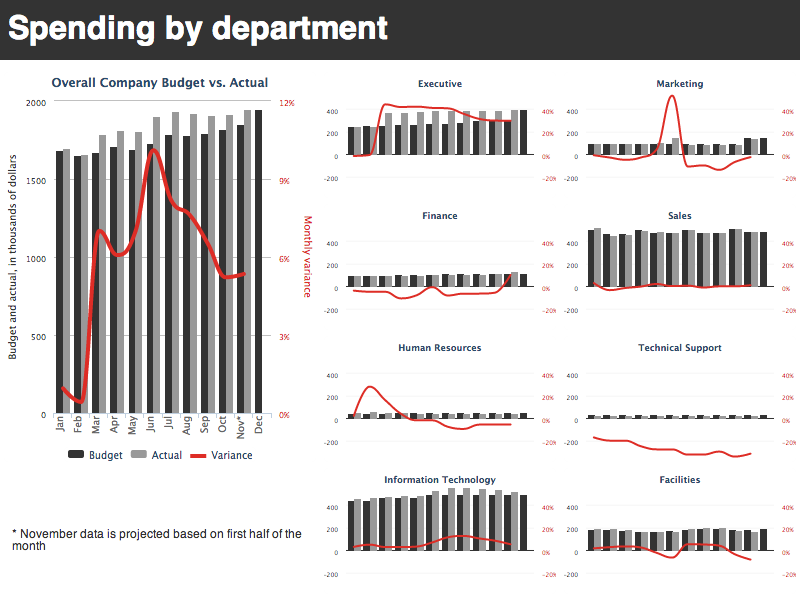
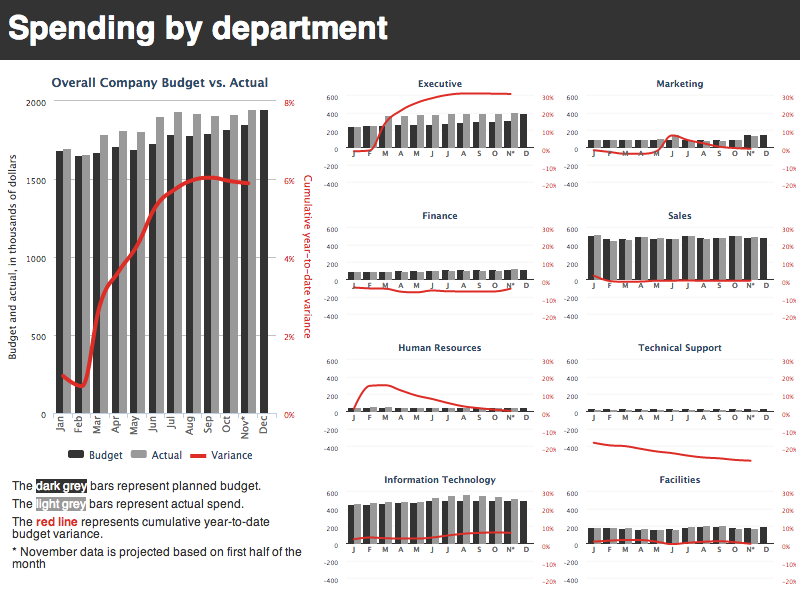
final updates to code and images

diff --git a/_js/chart2.js b/_js/chart2.js
@@ -52,6 +52,7 @@ $(document).ready(function(){
       // Chart 1 specifics
       var month_list = ['Jan', 'Feb', 'Mar', 'Apr', 'May', 'Jun', 'Jul', 'Aug', 'Sep', 'Oct', 'Nov', 'Dec'];
       var cat_list = ['Jan', 'Feb', 'Mar', 'Apr', 'May', 'Jun', 'Jul', 'Aug', 'Sep', 'Oct', 'Nov*', 'Dec'];
+      var cat_list_short = ['J', 'F', 'M', 'A', 'M', 'J', 'J', 'A', 'S', 'O', 'N*', 'D'];
       var dept_list = ['Executive', 'Finance', 'Human Resources', 'Marketing', 'Sales', 'Technical Support', 'Information Technology', 'Facilities'];
       var chart_list = ['exec-chart', 'finance-chart', 'hr-chart', 'marketing-chart', 'sales-chart', 'techsupport-chart', 'it-chart', 'facilities-chart'];
       var color_list = ['#253494', '#2c7fb8', '#41b6c4', '#006837', '#31a354', '#78c679', '#993404', '#d95f0e'];
@@ -72,8 +73,12 @@ $(document).ready(function(){
         budget_bars.push(cur_budget);
         actual_bars.push(cur_actual);
         if ( m < 11 ) {
-          var cur_var = ((cur_actual / cur_budget) - 1) * 100;
-          var_line.push(cur_var);
+          var total_budget = 0;
+          var total_actual = 0;
+          $.each(budget_bars,function() {total_budget += this;});
+          $.each(actual_bars,function() {total_actual += this;});
+          var ytd_var = ((total_actual / total_budget) - 1) * 100;
+          var_line.push(ytd_var);
         };
       };
 
@@ -135,7 +140,7 @@ $(document).ready(function(){
           endOnTick: false
         }, { // secondary yAxis
           title: {
-            text: 'Monthly variance',
+            text: 'Cumulative year-to-date variance',
             style: {
               color: '#de2d26',
               fontSize: '10px',
@@ -152,10 +157,10 @@ $(document).ready(function(){
           },
           opposite: true,
           min: 0,
-          max: 12,
+          max: 8,
           startOnTick: false,
           endOnTick: false,
-          tickInterval: 3
+          tickInterval: 2
         }],
         legend: {
           borderWidth: 0,
@@ -204,7 +209,12 @@ $(document).ready(function(){
           budget_bars.push(cur_budget);
           if ( m < 11 ) {
             actual_bars.push(cur_actual);
-            var_line.push(((cur_actual / cur_budget) - 1) * 100);
+            var total_budget = 0;
+            var total_actual = 0;
+            $.each(budget_bars,function() {total_budget += this;});
+            $.each(actual_bars,function() {total_actual += this;});
+            var ytd_var = ((total_actual / total_budget) - 1) * 100;
+            var_line.push(ytd_var);
           };
         };
         $("#" + chart_location).highcharts({
@@ -236,11 +246,12 @@ $(document).ready(function(){
             }
           },
           xAxis: {
-            categories: cat_list,
+            categories: cat_list_short,
             labels: {
-              rotation: 270,
+              y: -42,
               style: {
-                fontSize: '8px'
+                fontSize: '7px',
+                fontWeight: 'bold'
               }
             }
           },
@@ -263,8 +274,8 @@ $(document).ready(function(){
             }],
             gridLineColor: '#EEEEEE',
             gridLineWidth: 0.5,
-            min: -390,
-            max: 570,
+            min: -580,
+            max: 660,
             tickInterval: 200,
             startOnTick: false,
             endOnTick: false
@@ -282,11 +293,11 @@ $(document).ready(function(){
             },
             gridLineWidth: 0,
             opposite: true,
-            min: -39,
-            max: 57,
+            min: -28,
+            max: 33,
             startOnTick: false,
             endOnTick: false,
-            tickInterval: 20
+            tickInterval: 10
           }],
           legend: {
             enabled: false

diff --git a/chart2.html b/chart2.html
@@ -35,6 +35,9 @@
     </div>
 
     <div id="footer">
+        <p>The <span style='color: #FFF; background-color: #333;'>dark grey</span> bars represent planned budget.</p>
+        <p>The <span style='color: #FFF; background-color: #999;'>light grey</span> bars represent actual spend.</p>
+        <p>The <span style='color: #de2d26; font-weight:bold;'>red line</span> represents cumulative year-to-date budget variance.</p>
         <p>* November data is projected based on first half of the month</p>
     </div>
 

diff --git a/chart1.html b/chart1.html
@@ -19,7 +19,7 @@
     <div id="diff-chart">
         <div id='month-titles'>
           <p id='month-titles-title'>
-            Monthly variance by department, <span style='color: #de2d26;'>over-</span> and <span style='color: #3182bd;'>under-</span>spend
+            Monthly variance by department, % <span style='color: #de2d26;'>over-</span> or <span style='color: #3182bd;'>under-</span>spend
           </p>
           <div id='month-titles-header'>
           </div>

diff --git a/_js/chart1.js b/_js/chart1.js
@@ -90,7 +90,7 @@ $(document).ready(function(){
           }
         },
         title: {
-          text: 'Year-to-date total variance from budget',
+          text: 'Year-to-date cumulative variance from budget',
           x: -20,
           style: {
             fontSize: '12px'

diff --git a/_css/chart2.css b/_css/chart2.css
@@ -111,7 +111,7 @@ body {
     float: left;
     padding-left: 1%;
     padding-right: 1%;
-    padding-top: 60px;
+    padding-top: 12px;
 }
 
 .small-mult-chart {
@@ -138,5 +138,6 @@ body {
 p {
     font-size: 12px;
     color: #333;
+    padding-bottom: 6px;
 }
 
